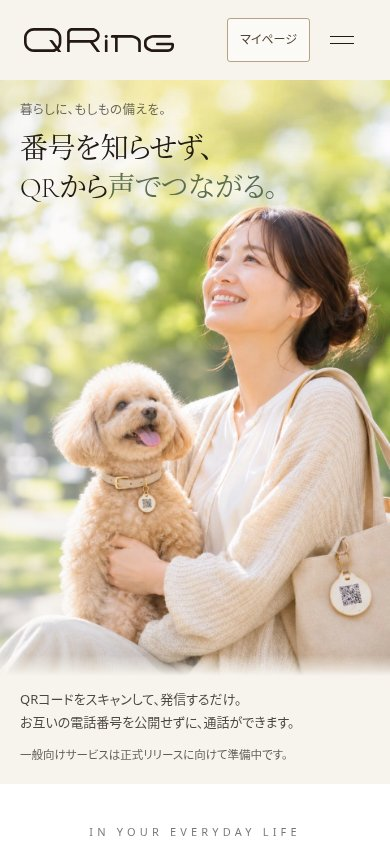
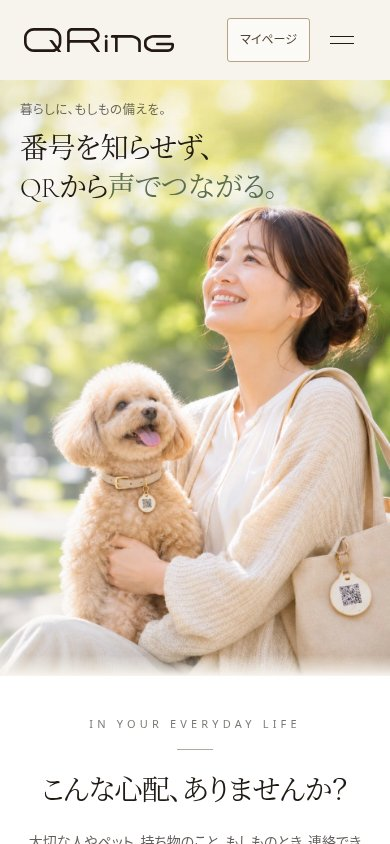
Remove mobile hero details and retain availability at personal guidance

Changed region(s): [[0.0308, 0.8009, 0.8923, 0.955], [0.0615, 0.9858, 0.9231, 1.0]]

diff --git a/src/components/HomeHero.module.css b/src/components/HomeHero.module.css
@@ -17,11 +17,8 @@
   .heroBrand { font-size: 12.5px; line-height: 1.6; letter-spacing: .04em; }
   .heroTitle { margin-top: 10px; font-size: clamp(26px, 7.2vw, 30px); line-height: 1.4; }
   .heroTitle > span { white-space: nowrap; }
-  /* 説明・提供状況は写真の下の通常フローに置き、被写体と重ねない。 */
-  .heroCopy .heroDetails { width: 100%; padding: 12px 20px 20px; }
-  .heroSubcopy { width: auto; margin-top: 0; font-size: 13px; line-height: 1.8; }
-  .heroFeatures, .heroActions { display: none; }
-  .heroNotice { position: static; max-width: none; margin-top: 10px; font-size: 11.5px; line-height: 1.7; }
+  /* スマートフォンは写真から困りごとへ。提供状況は料金・利用案内で表示する。 */
+  .heroCopy .heroDetails { display: none; }
 }
 
 /* PC: 写真は通常フローに置かず、同一ステージの背景レイヤーに固定する。 */

diff --git a/src/app/page.tsx b/src/app/page.tsx
@@ -61,7 +61,6 @@ export default function Home() {
             </div>
             <div className={`${heroStyles.heroDetails} col-start-1 row-start-2 px-6 pb-7 pt-5`}>
               <p className={`${heroStyles.heroSubcopy} mt-0 text-sm leading-[1.9] text-ink/80 md:mt-5 md:text-[clamp(12px,1.12vw,17px)]`}>
-                <span className="md:hidden" data-mobile-hero-subcopy>QRコードをスキャンして、発信するだけ。<br />お互いの電話番号を公開せずに、通話ができます。</span>
                 <span className="hidden md:inline">QRコードをスキャンして、発信するだけ。<br />お互いの電話番号を公開せずに、通話ができます。</span>
               </p>
               <ul className={`${heroStyles.heroFeatures} mt-4 flex flex-wrap gap-x-4 gap-y-2 text-xs leading-relaxed text-deepmoss md:mt-5 md:text-sm`}>
